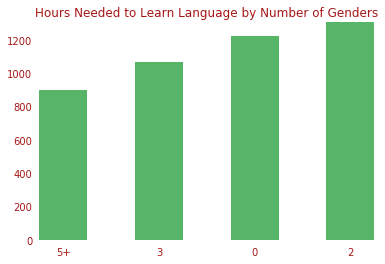
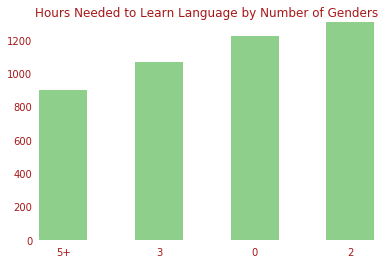
Lighten bar color

diff --git a/_posts/2019-08-30-Anthony-Hart-and-the-Quest-for-a-Statistically-Significant-Result-About-the-Difficulty-of-Different-Languages.md b/_posts/2019-08-30-Anthony-Hart-and-the-Quest-for-a-Statistically-Significant-Result-About-the-Difficulty-of-Different-Languages.md
@@ -181,7 +181,7 @@ The most obvious thing to start with is simply the number of genders in the lang
 <div style="text-align:center" TITLE="Hours Needed to Learn Language by Number of Genders"><img src="../img/AHQSSRADDL/num_of_genders.png" /></div>
 
 <!-- 
-ax = langDf.pivot_table(values=['class_hours'], index='30A Number of Genders').sort_values('class_hours').plot(kind='bar', color='#56B567');
+ax = langDf.pivot_table(values=['class_hours'], index='30A Number of Genders').sort_values('class_hours').plot(kind='bar', color='#8ED08B');
 
 fontColor = "#a61717"
 
@@ -220,7 +220,7 @@ The only place where gender plays a clear role in English is in pronoun usage. T
 <div style="text-align:center" TITLE="Hours Needed to Learn Language by Gender Distinctions in Independent Personal Pronouns"><img src="../img/AHQSSRADDL/num_of_genders_pronouns.png" /></div>
 
 <!-- 
-ax = langDf.pivot_table(values=['class_hours'], index='44A Gender Distinctions in Independent Personal Pronouns').sort_values('class_hours').plot(kind='bar', color='#56B567');
+ax = langDf.pivot_table(values=['class_hours'], index='44A Gender Distinctions in Independent Personal Pronouns').sort_values('class_hours').plot(kind='bar', color='#8ED08B');
 
 fontColor = "#a61717"
 
@@ -294,7 +294,7 @@ The first thing I find is the relation between languages with different words fo
 <div style="text-align:center" TITLE="Hours Needed to Learn Language by Word for Tea"><img src="../img/AHQSSRADDL/word_for_tea.png" /></div>
 
 <!-- 
-ax = langDf.pivot_table(values=['class_hours'], index='138A Tea').sort_values('class_hours').plot(kind='bar', color='#56B567');
+ax = langDf.pivot_table(values=['class_hours'], index='138A Tea').sort_values('class_hours').plot(kind='bar', color='#8ED08B');
 
 fontColor = "#a61717"
 
@@ -350,7 +350,7 @@ Something that seems to genuinely contribute to difficulty is the handling of no
 <div style="text-align:center" TITLE="Hours Needed to Learn Language by Nominal and Verbal Conjunction"><img src="../img/AHQSSRADDL/nominal_verbal_conjunction.png" /></div>
 
 <!-- 
-ax = langDf.pivot_table(values=['class_hours'], index='64A Nominal and Verbal Conjunction').sort_values('class_hours').plot(kind='bar', color='#56B567');
+ax = langDf.pivot_table(values=['class_hours'], index='64A Nominal and Verbal Conjunction').sort_values('class_hours').plot(kind='bar', color='#8ED08B');
 
 fontColor = "#a61717"
 
@@ -386,7 +386,7 @@ usage of differentiation vs identity. This appears significantly in two categori
 <div style="text-align:center" TITLE="Hours Needed to Learn Language by Comitatives and Instrumentals"><img src="../img/AHQSSRADDL/comitative_instrumental.png" /></div>
 
 <!-- 
-ax = langDf.pivot_table(values=['class_hours'], index='52A Comitatives and Instrumentals').sort_values('class_hours').plot(kind='bar', color='#56B567');
+ax = langDf.pivot_table(values=['class_hours'], index='52A Comitatives and Instrumentals').sort_values('class_hours').plot(kind='bar', color='#8ED08B');
 
 fontColor = "#a61717"
 
@@ -419,7 +419,7 @@ Another significant result can be seen with suppletion. This is a phenomenon whe
 <div style="text-align:center" TITLE="Hours Needed to Learn Language by Suppletion According to Tense and Aspect"><img src="../img/AHQSSRADDL/suppletion.png" /></div>
 
 <!-- 
-ax = langDf.pivot_table(values=['class_hours'], index='79A Suppletion According to Tense and Aspect').sort_values('class_hours').plot(kind='bar', color='#56B567');
+ax = langDf.pivot_table(values=['class_hours'], index='79A Suppletion According to Tense and Aspect').sort_values('class_hours').plot(kind='bar', color='#8ED08B');
 
 fontColor = "#a61717"
 
